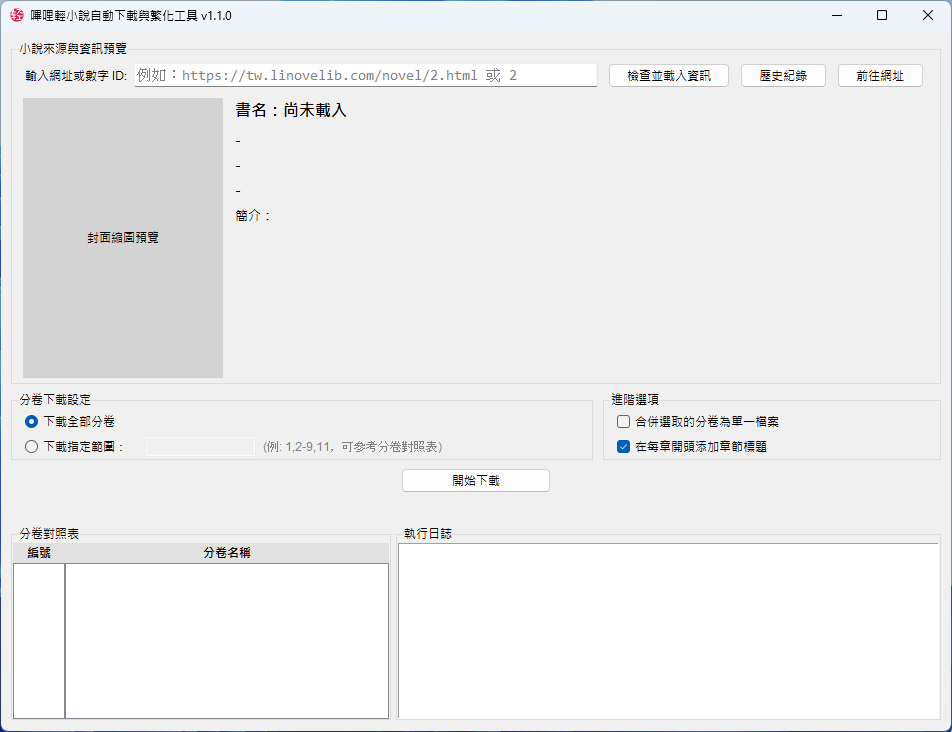
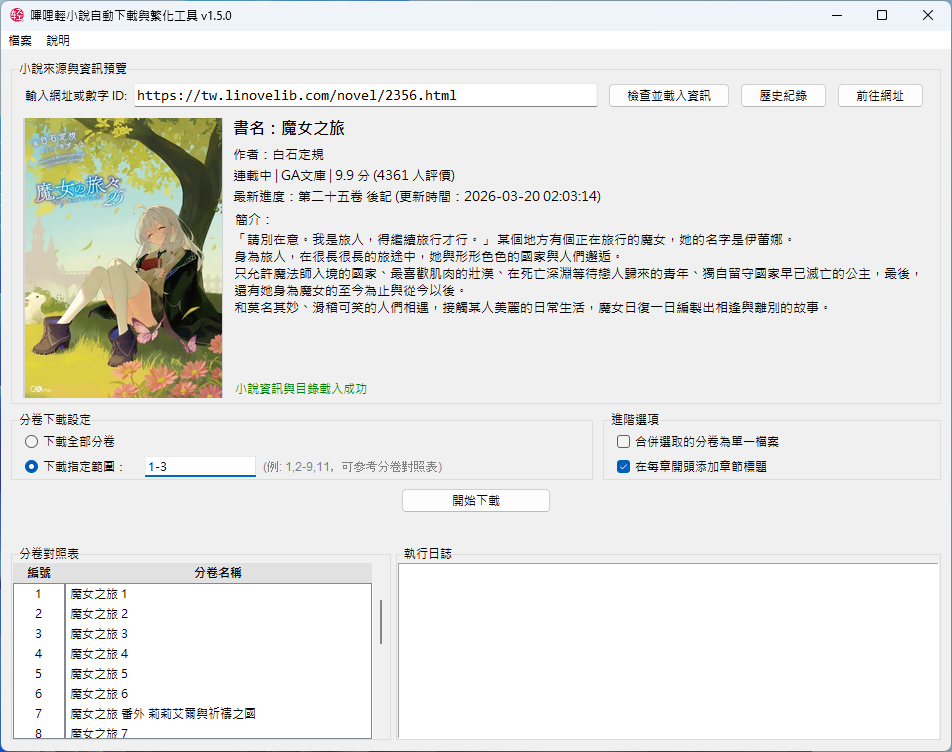
docs: update preview screenshots

diff --git a/README.md b/README.md
@@ -12,6 +12,8 @@
 
 <img width="952" height="732" alt="screenshot2" src="./assets/screenshots2.png" />
 
+<img width="952" height="732" alt="screenshot3" src="./assets/screenshots3.png" />
+
 ## 特色與功能
 
 *   **圖形介面**：貼上網址或數字 ID 即可預覽小說資訊（封面、簡介、目錄）
